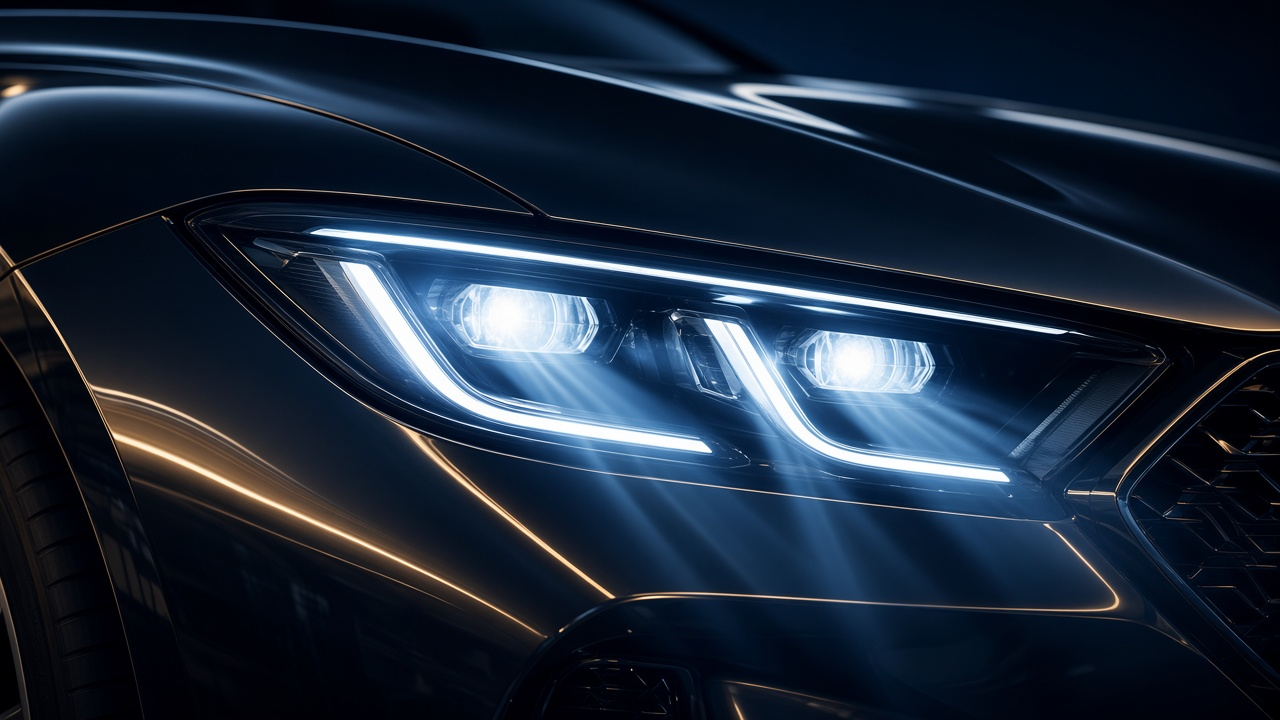
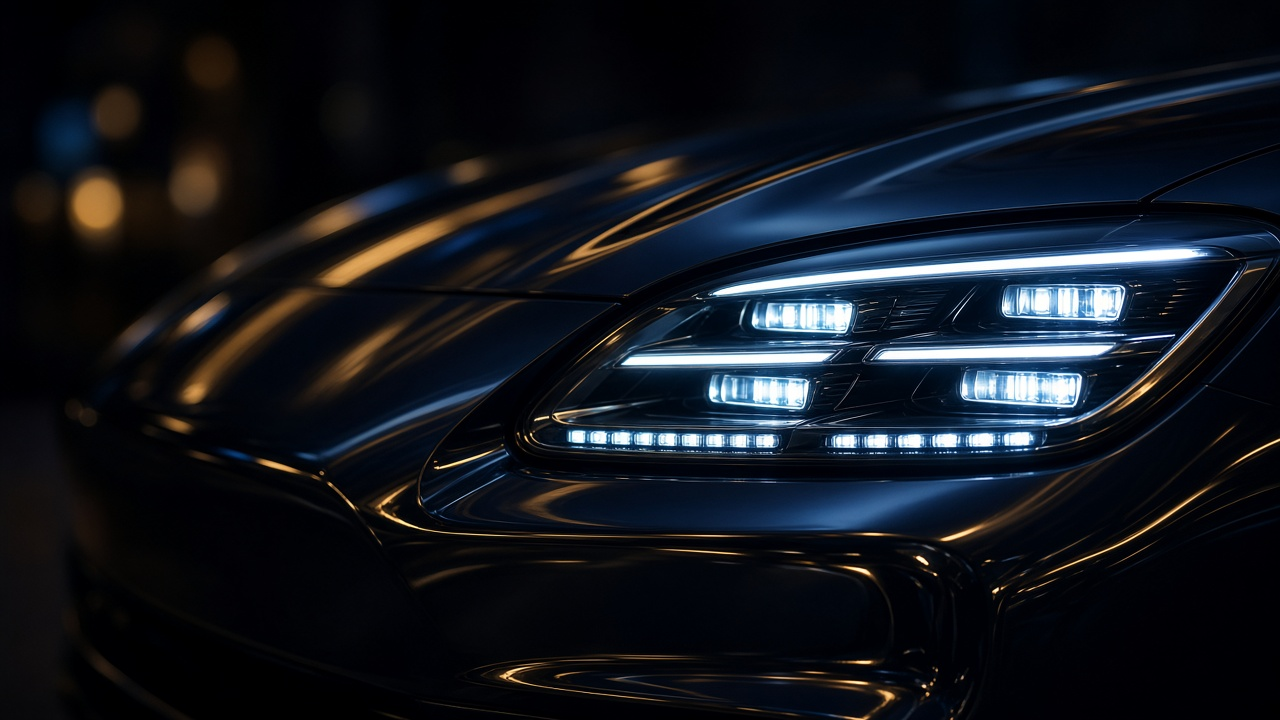
fix(landing): strengthen hero photography and phone product preview
Swap in clearer showroom/headlight assets, lighten overlays, enlarge the phone shell, and add demo metrics plus glow so the hero closer matches the automotive reference.

diff --git a/src/components/landing/v3/landing.module.css b/src/components/landing/v3/landing.module.css
@@ -96,7 +96,7 @@
 }
 
 .btnGhost {
-  display: inline-flex;
+  display: none;
   align-items: center;
   justify-content: center;
   min-height: 44px;
@@ -181,19 +181,21 @@
   background:
     linear-gradient(
       105deg,
-      rgba(7, 12, 20, 0.97) 0%,
-      rgba(7, 12, 20, 0.88) 42%,
-      rgba(7, 12, 20, 0.55) 68%,
-      rgba(7, 12, 20, 0.72) 100%
+      rgba(7, 12, 20, 0.94) 0%,
+      rgba(7, 12, 20, 0.78) 38%,
+      rgba(7, 12, 20, 0.35) 62%,
+      rgba(7, 12, 20, 0.55) 100%
     ),
-    radial-gradient(ellipse 60% 50% at 75% 45%, rgba(46, 104, 247, 0.12), transparent 70%),
-    var(--hero-photo, #0b1114) center / cover no-repeat;
+    radial-gradient(ellipse 55% 55% at 78% 48%, rgba(46, 104, 247, 0.18), transparent 72%),
+    radial-gradient(ellipse 40% 35% at 70% 60%, rgba(212, 175, 59, 0.08), transparent 70%),
+    var(--hero-photo, #0b1114) right center / cover no-repeat;
 }
 
 .heroGrid {
   display: grid;
   gap: 2.5rem;
   align-items: center;
+  min-height: clamp(28rem, 62vh, 38rem);
 }
 
 .heroCopy {
@@ -301,21 +303,35 @@
   position: relative;
   display: flex;
   justify-content: center;
-  min-height: 22rem;
+  align-items: center;
+  min-height: 26rem;
+}
+
+.heroGlow {
+  position: absolute;
+  inset: 8% 12% 5% 12%;
+  z-index: 0;
+  border-radius: 50%;
+  background:
+    radial-gradient(circle at 50% 40%, rgba(46, 104, 247, 0.28), transparent 62%),
+    radial-gradient(circle at 55% 70%, rgba(212, 175, 59, 0.12), transparent 55%);
+  filter: blur(18px);
+  pointer-events: none;
 }
 
 .phoneShell {
   position: relative;
   z-index: 2;
-  width: min(100%, 280px);
-  border-radius: 2rem;
-  border: 2px solid rgba(255, 255, 255, 0.12);
+  width: min(100%, 300px);
+  border-radius: 2.15rem;
+  border: 2px solid rgba(255, 255, 255, 0.14);
   background: #0b1114;
   box-shadow:
-    0 30px 60px rgba(0, 0, 0, 0.55),
-    0 0 0 1px rgba(212, 175, 59, 0.08);
+    0 36px 70px rgba(0, 0, 0, 0.6),
+    0 0 40px rgba(46, 104, 247, 0.18),
+    0 0 0 1px rgba(212, 175, 59, 0.12);
   overflow: hidden;
-  aspect-ratio: 9 / 19;
+  aspect-ratio: 9 / 18.5;
 }
 
 .phoneNotch {
@@ -378,6 +394,36 @@
   margin: 0.15rem 0 0;
   font-size: 0.6rem;
   color: rgba(235, 237, 239, 0.55);
+}
+
+.phoneMetrics {
+  display: grid;
+  grid-template-columns: repeat(3, 1fr);
+  gap: 0.35rem;
+}
+
+.phoneMetric {
+  padding: 0.4rem 0.25rem;
+  border-radius: 10px;
+  border: 1px solid rgba(255, 255, 255, 0.08);
+  background: rgba(26, 35, 48, 0.9);
+  text-align: center;
+}
+
+.phoneMetricNum {
+  margin: 0;
+  font-size: 0.95rem;
+  font-weight: 800;
+  color: #d4af3b;
+  line-height: 1;
+}
+
+.phoneMetricLabel {
+  margin: 0.2rem 0 0;
+  font-size: 0.48rem;
+  font-weight: 600;
+  color: rgba(235, 237, 239, 0.55);
+  line-height: 1.2;
 }
 
 .phoneJobs {
@@ -1083,6 +1129,9 @@
   .nav {
     display: flex;
   }
+  .btnGhost {
+    display: inline-flex;
+  }
   .menuBtn {
     display: none;
   }
@@ -1136,7 +1185,10 @@
     gap: 3rem;
   }
   .phoneShell {
-    width: 300px;
+    width: 320px;
+  }
+  .heroVisual {
+    min-height: 34rem;
   }
 }
 

diff --git a/src/components/landing/v3/exchange-landing.tsx b/src/components/landing/v3/exchange-landing.tsx
@@ -19,6 +19,20 @@ function ProductPhonePreview() {
         <p className={styles.phoneTitle}>
           יש 3 הזדמנויות שכדאי לבדוק היום
         </p>
+        <div className={styles.phoneMetrics}>
+          <div className={styles.phoneMetric}>
+            <p className={styles.phoneMetricNum}>3</p>
+            <p className={styles.phoneMetricLabel}>הזדמנויות</p>
+          </div>
+          <div className={styles.phoneMetric}>
+            <p className={styles.phoneMetricNum}>7</p>
+            <p className={styles.phoneMetricLabel}>חיפושים</p>
+          </div>
+          <div className={styles.phoneMetric}>
+            <p className={styles.phoneMetricNum}>12</p>
+            <p className={styles.phoneMetricLabel}>ברשת</p>
+          </div>
+        </div>
         <div className={styles.phoneCapture}>
           <span aria-hidden>📷</span>
           <div>
@@ -117,7 +131,8 @@ export function ExchangeLanding() {
               <br />
               {LANDING_COPY.hero.h1Line2Before}
               <span className={styles.heroGold}>{LANDING_COPY.hero.h1Gold}</span>
-              {LANDING_COPY.hero.h1Line2After}
+              <br />
+              {LANDING_COPY.hero.h1Line2After.trimStart()}
             </h1>
             <p className={styles.heroSupport}>{LANDING_COPY.hero.support}</p>
             <div className={styles.heroCtas}>
@@ -140,6 +155,7 @@ export function ExchangeLanding() {
             </ul>
           </div>
           <div className={styles.heroVisual}>
+            <div className={styles.heroGlow} aria-hidden />
             <ProductPhonePreview />
             <div className={styles.floatTag}>
               MORE CARS
